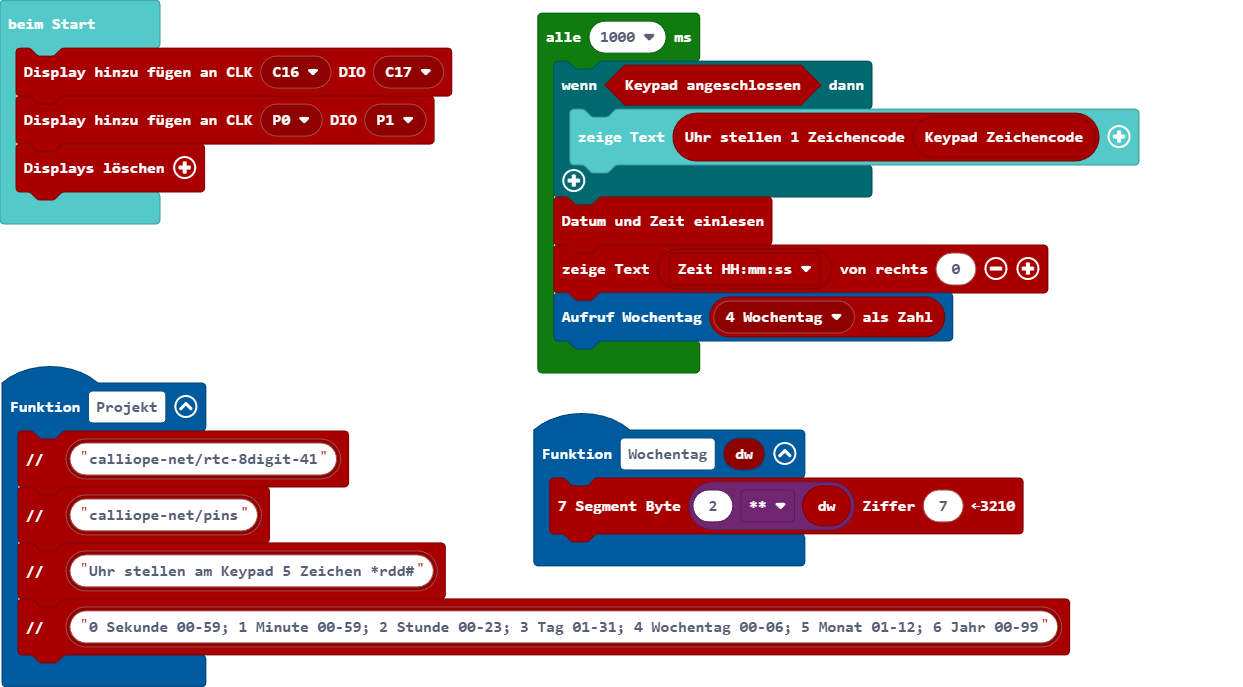
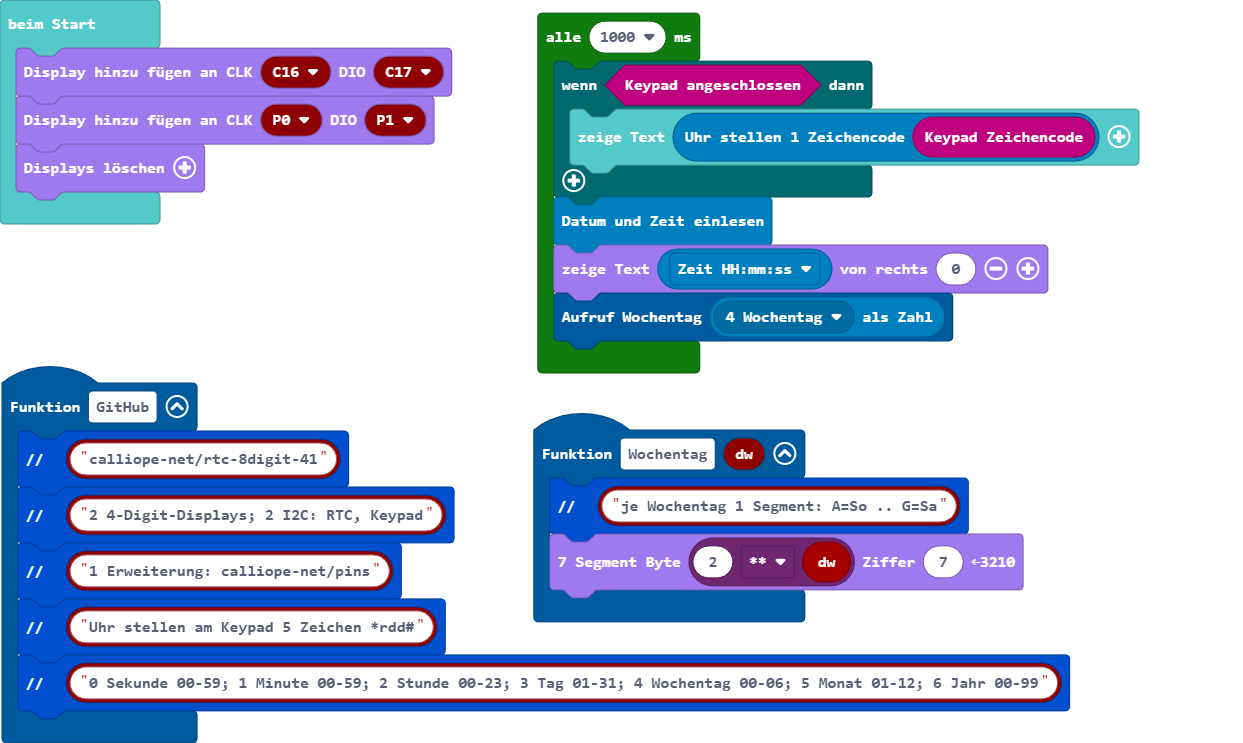
Aktualisiere pxt.json, main.blocks, main.ts

diff --git a/main.ts b/main.ts
@@ -1,11 +1,13 @@
-function Wochentag (dw: number) {
-    pins.zeige7SegmentByte(2 ** dw, 7)
-}
-function Projekt () {
+function GitHub () {
     pins.comment(pins.pins_text("calliope-net/rtc-8digit-41"))
-    pins.comment(pins.pins_text("calliope-net/pins"))
+    pins.comment(pins.pins_text("2 4-Digit-Displays; 2 I2C: RTC, Keypad"))
+    pins.comment(pins.pins_text("1 Erweiterung: calliope-net/pins"))
     pins.comment(pins.pins_text("Uhr stellen am Keypad 5 Zeichen *rdd#"))
     pins.comment(pins.pins_text("0 Sekunde 00-59; 1 Minute 00-59; 2 Stunde 00-23; 3 Tag 01-31; 4 Wochentag 00-06; 5 Monat 01-12; 6 Jahr 00-99"))
+}
+function Wochentag (dw: number) {
+    pins.comment(pins.pins_text("je Wochentag 1 Segment: A=So .. G=Sa"))
+    pins.zeige7SegmentByte(2 ** dw, 7)
 }
 pins.addDisplay(pins.pins_DigitalPin(DigitalPin.C16), pins.pins_DigitalPin(DigitalPin.C17))
 pins.addDisplay(pins.pins_DigitalPin(DigitalPin.P0), pins.pins_DigitalPin(DigitalPin.P1))
